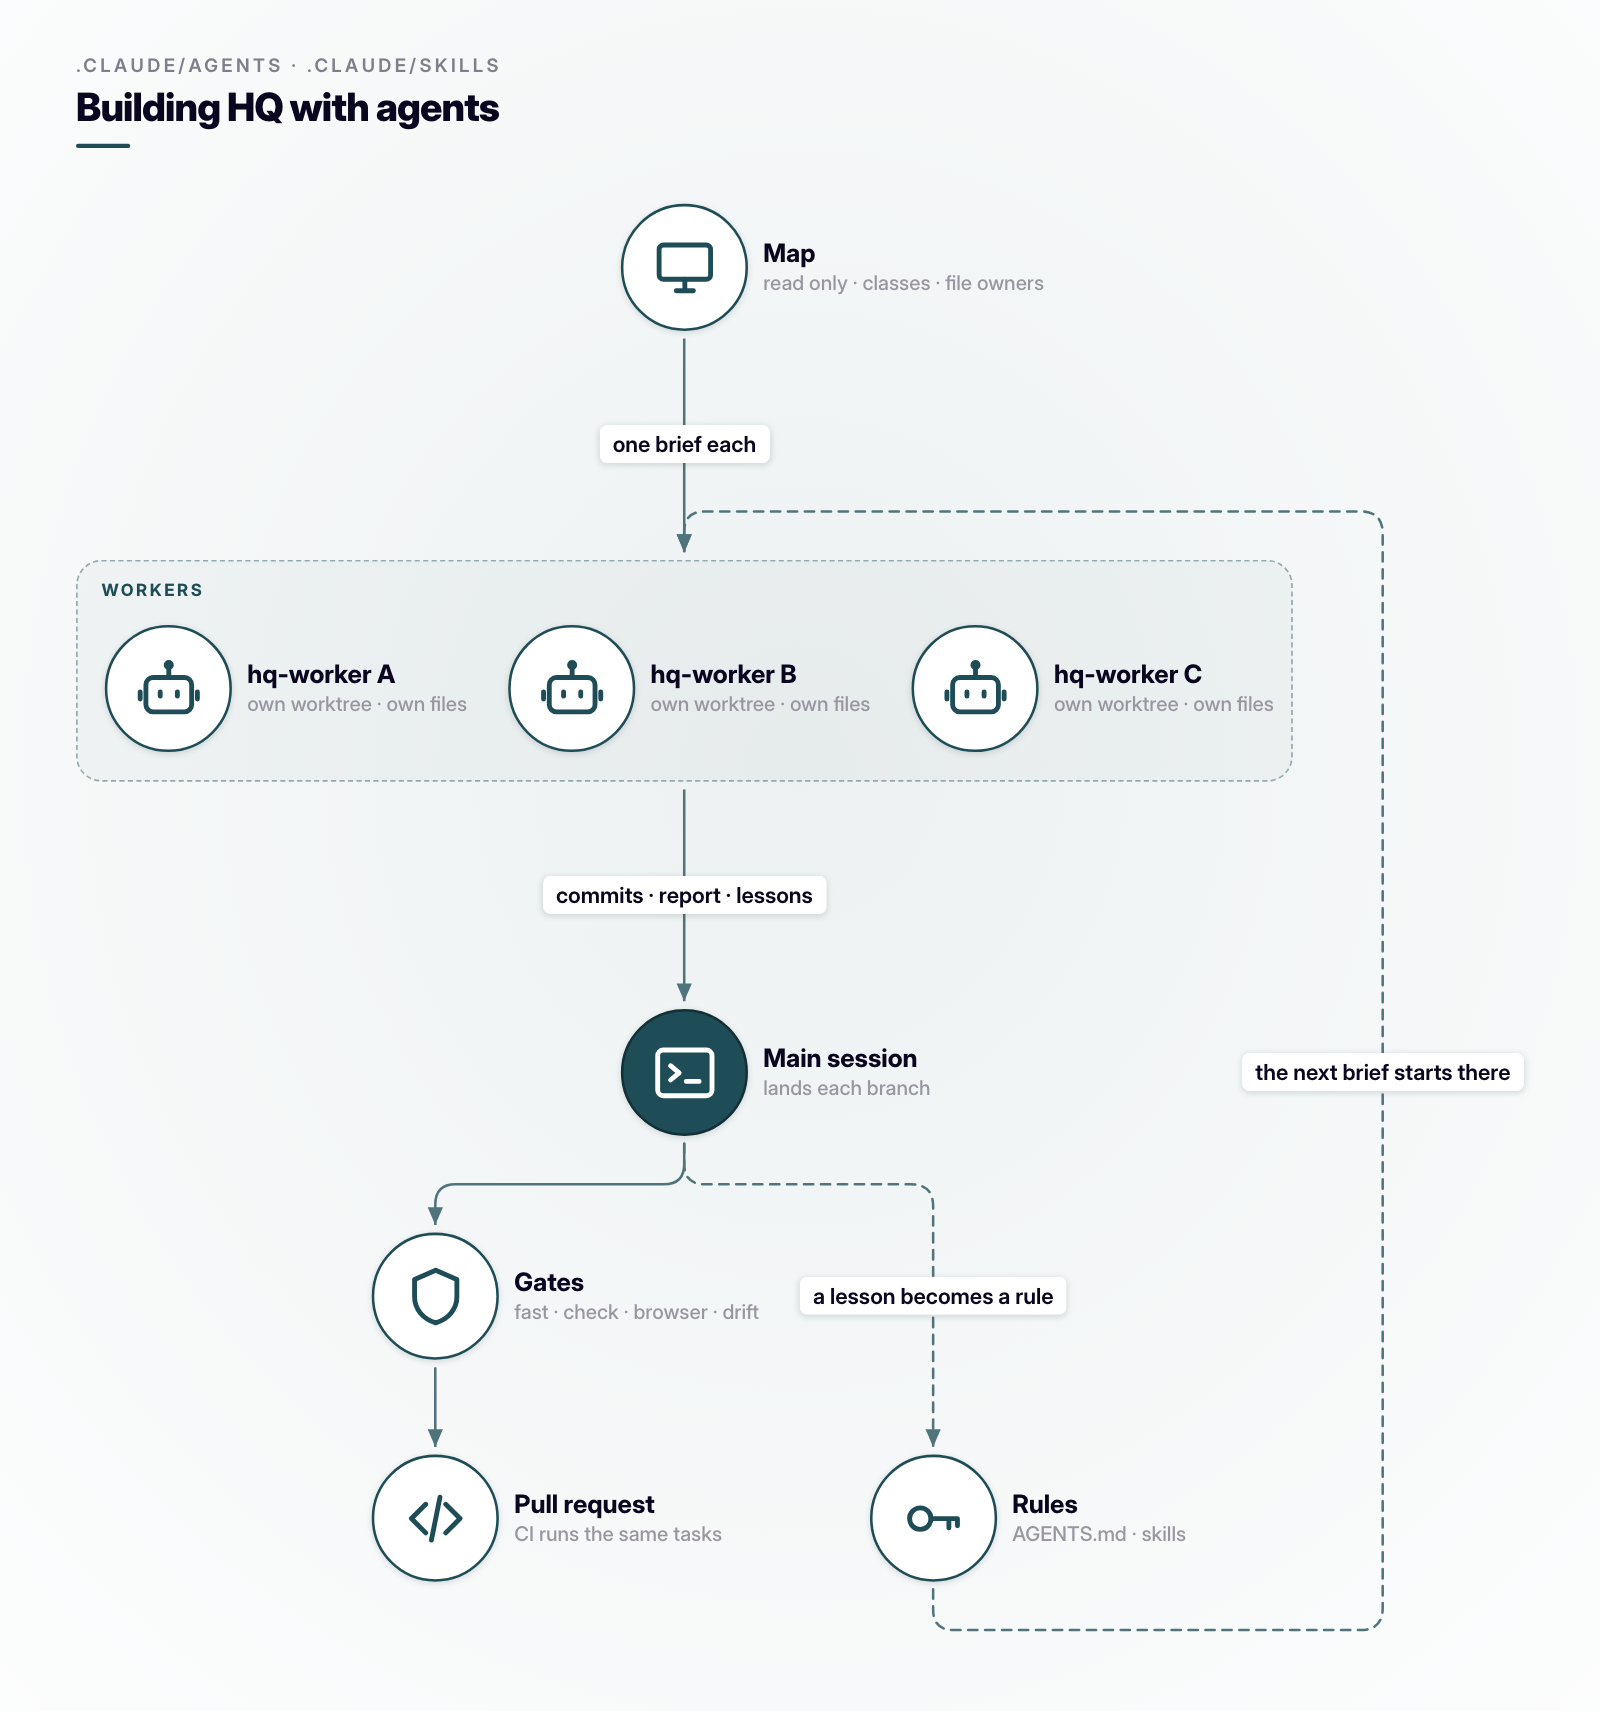
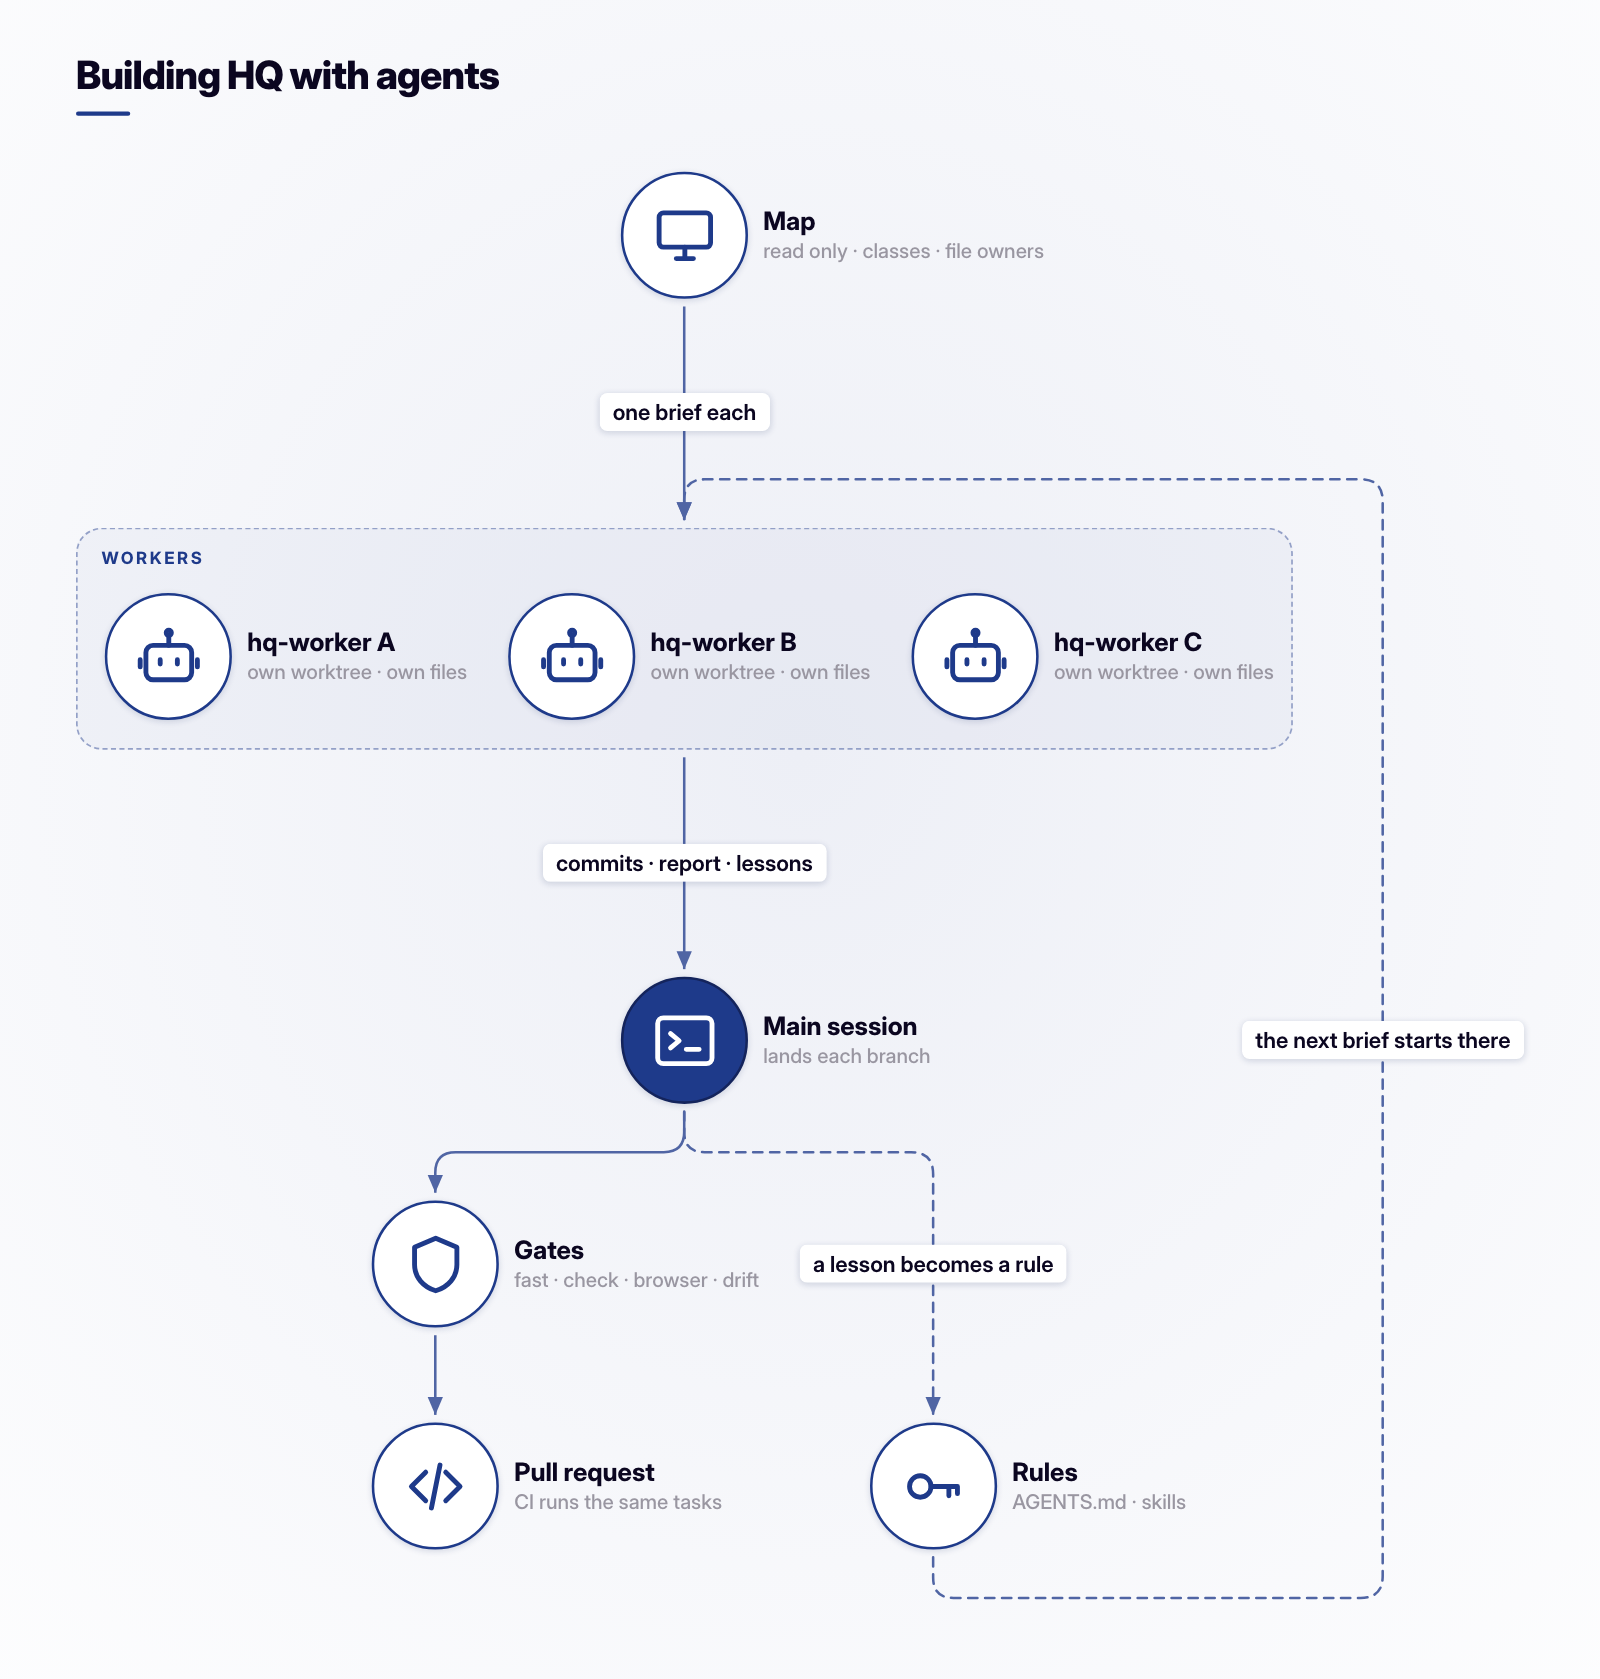
docs: the build-loop figure drops the subtitle naming .claude paths, and AI.md no longer says the agent and skills ship in this repository

diff --git a/docs/AI.md b/docs/AI.md
@@ -1,7 +1,7 @@
 # AI and HQ
 
 HQ is built by one person working with AI agents, and agents also operate it.
-This page covers both: the agent files this repository ships and the gates
+This page covers both: how agents build it and the gates
 that hold their work to the same bar as anyone's, then the two doors an agent
 uses to read and change HQ, and the limits on what it can do through them.
 
@@ -110,8 +110,8 @@ of this public repository:
   across all of them. These live in a private repository, because they carry
   one operator's machine, accounts and other projects.
 
-HQ's own rules do not depend on that private setup: the contract, the gates,
-the worker and the skills above are all in this repository.
+HQ's own rules do not depend on that private setup: the contract and the
+gates are in this repository.
 
 ## Operating HQ with agents
 
